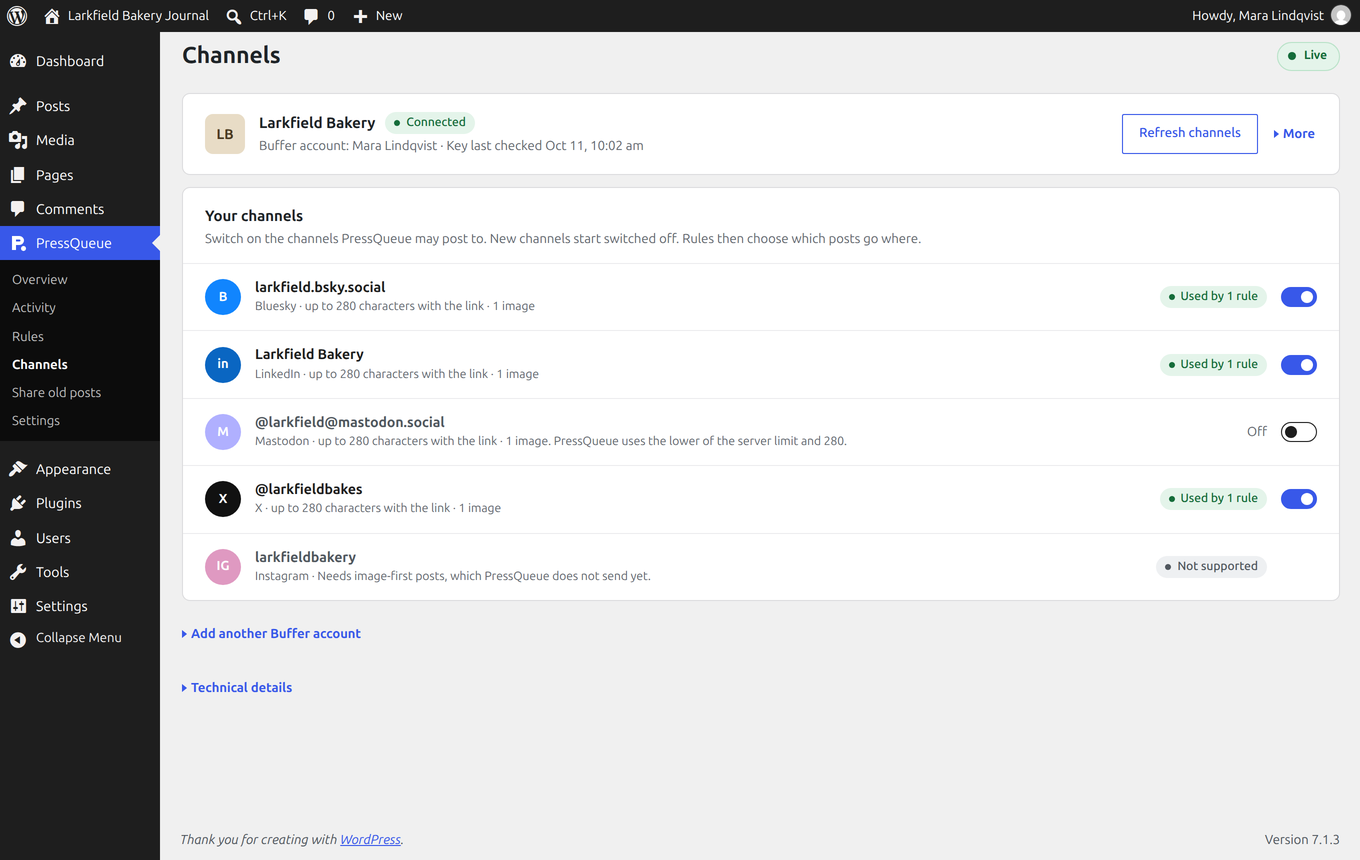
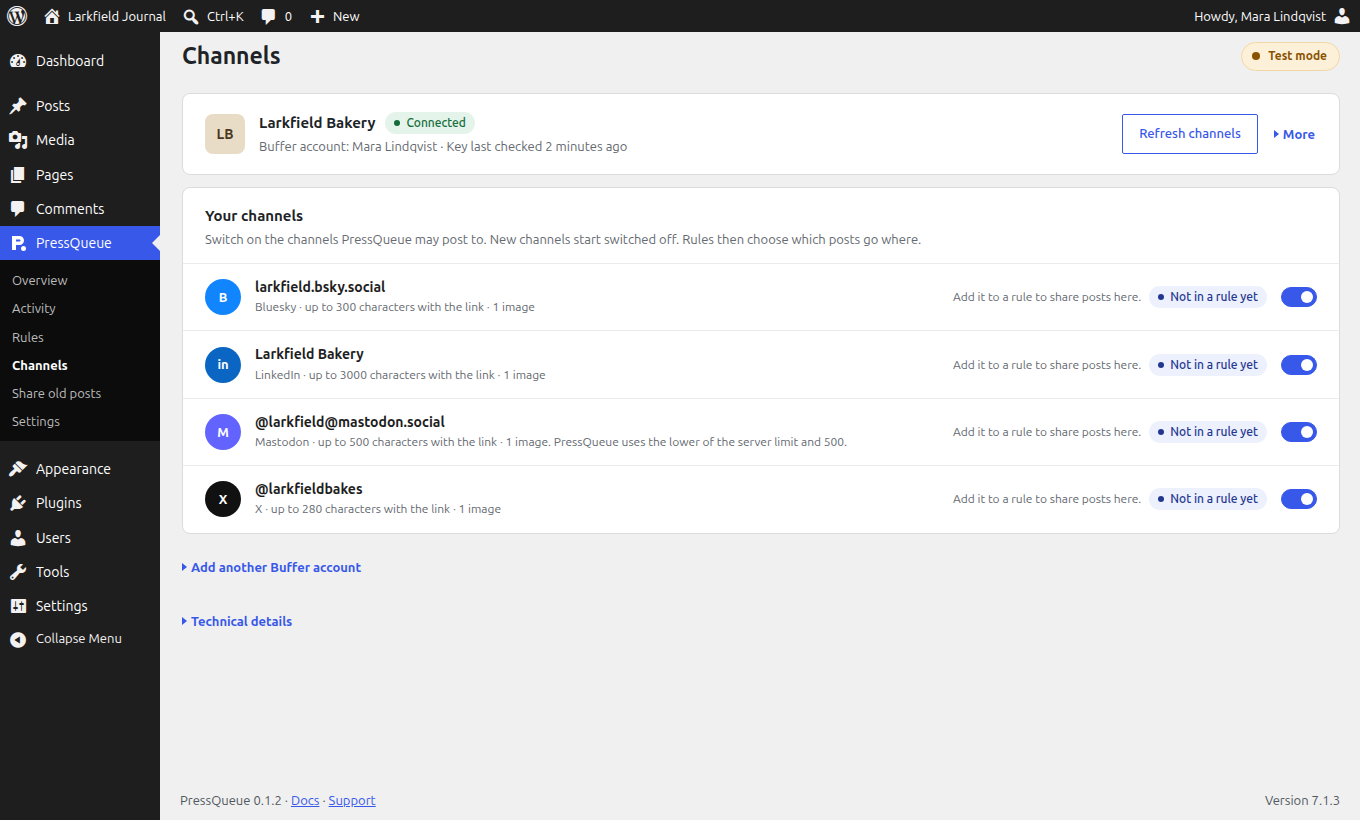
Clarify LinkedIn sharing and free features in the plugin listing

diff --git a/CONTRIBUTING.md b/CONTRIBUTING.md
@@ -86,7 +86,7 @@ it in Git or use the account login password. Publishing a GitHub release is
 the release action; ordinary commits and tag pushes do not publish to SVN.
 
 If a run stops after attempting its SVN commit, check the remote tag before
-retrying. Published SVN version tags are never overwritten. The workflow also
+retrying. Published code in SVN version tags is never overwritten. The workflow also
 supports a manual run for an existing stable GitHub release. Old releases made
 before this workflow was added use the local publisher instead.
 
@@ -94,3 +94,12 @@ For a local preview, run `python3 tools/publish-wordpress.py --help`. Without
 `--commit`, it stages the ZIP in a new checkout and prints a receipt. Publishing
 requires `--commit` and `SVN_PASSWORD` in the process environment. Keep the ZIP
 and its recorded hash together; don't rebuild an already tested release.
+
+For a listing-only correction, update `readme.txt` in Git first. WordPress.org
+reads the description from the current stable tag, so copy that readme to both
+SVN `trunk/readme.txt` and `tags/X.Y.Z/readme.txt` in one commit. Keep the plugin
+version and Stable tag unchanged. Check that only those two readme files changed;
+never replace published code or recreate the tag. This regenerates the directory
+ZIP, so record its new checksum and verify that all other files are unchanged.
+The original GitHub release ZIP stays as published. A new code release still
+uses the workflow above and a new version number.

diff --git a/README.md b/README.md
@@ -12,7 +12,8 @@ Facebook.
 It is open source and has no Pro version, no license key and no account to
 create. The plugin runs on your own server and talks to Buffer directly.
 
-Website and documentation: [pressqueue.com](https://www.pressqueue.com)
+[Install from WordPress.org](https://wordpress.org/plugins/pressqueue/) |
+[Website and documentation](https://www.pressqueue.com)
 
 ![The PressQueue overview in the WordPress admin](docs/images/overview.png)
 
